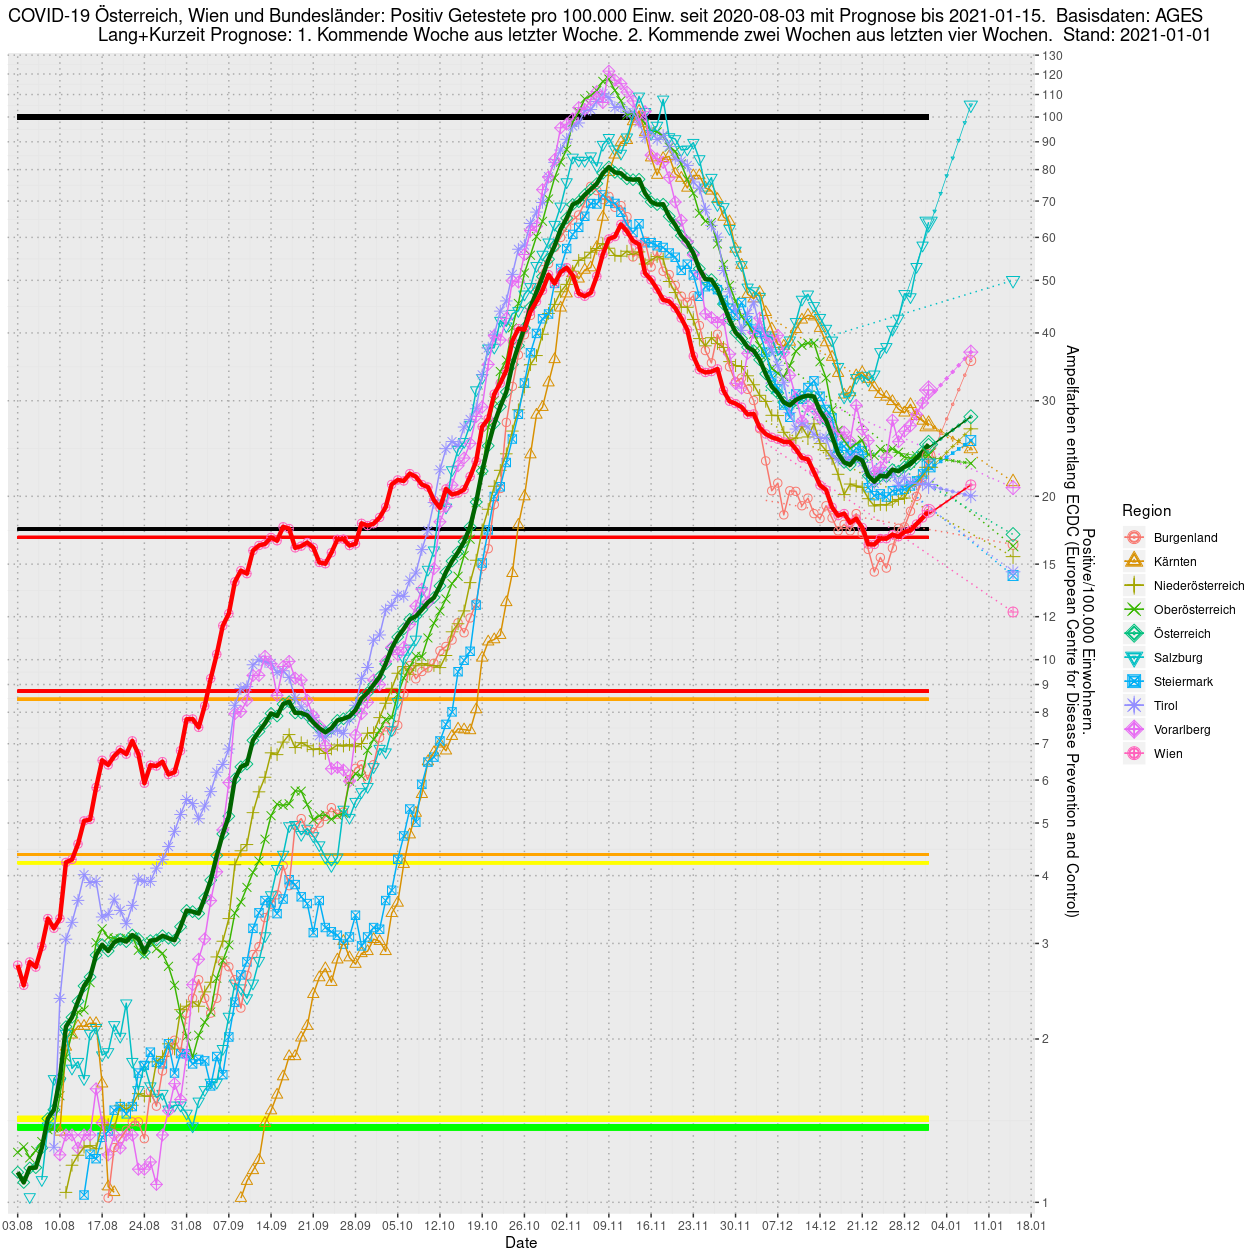
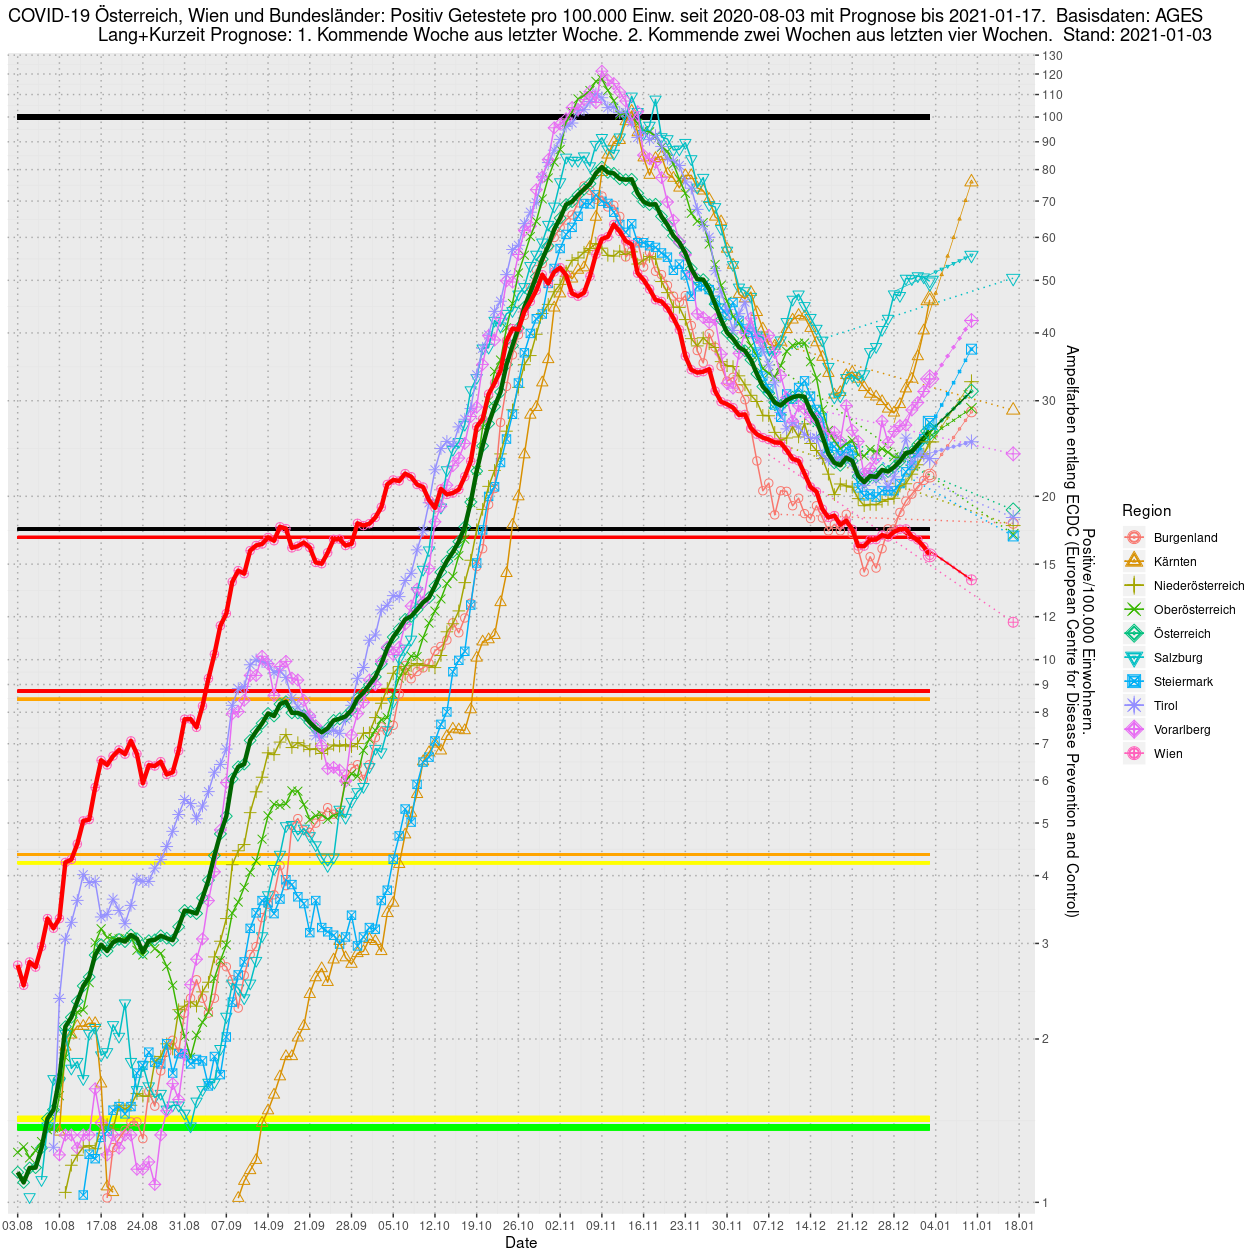
Estimate of last three days of weekly means Update readme

diff --git a/README.md b/README.md
@@ -9,9 +9,10 @@
 - 'number of days until times ten cases': Measure for speed of spread of desease
 
 ## Currents News and Enhancements (Xmas 2020)
+- 2020-01-03: Estimate of last three days of weekly means: Daterange for quadratic regression of log counts now 7 days (was 14). This also influences the 1 and 2 week predictions based on past 1 and 4 weeks.
 - 2020-12-30: Add Download, Visualization and Analysis of AGES data
 
-## Situation in Austria as of 2020-12-28
+## Situation in Austria as of 2021-01-03
 - y-Axis: log10 daily positive tested per 100.000. Color scheme ranges along ECDC
 <p><img src="https://github.com/at062084/COVID-19-Austria/blob/master/bmsgpk/COVID-19-Austria-newConfPop_Date_Region.png" alt="COVID-19-Austria-newConfPop_Date_Region.png"  width="1260" height="979"/></p>
 
